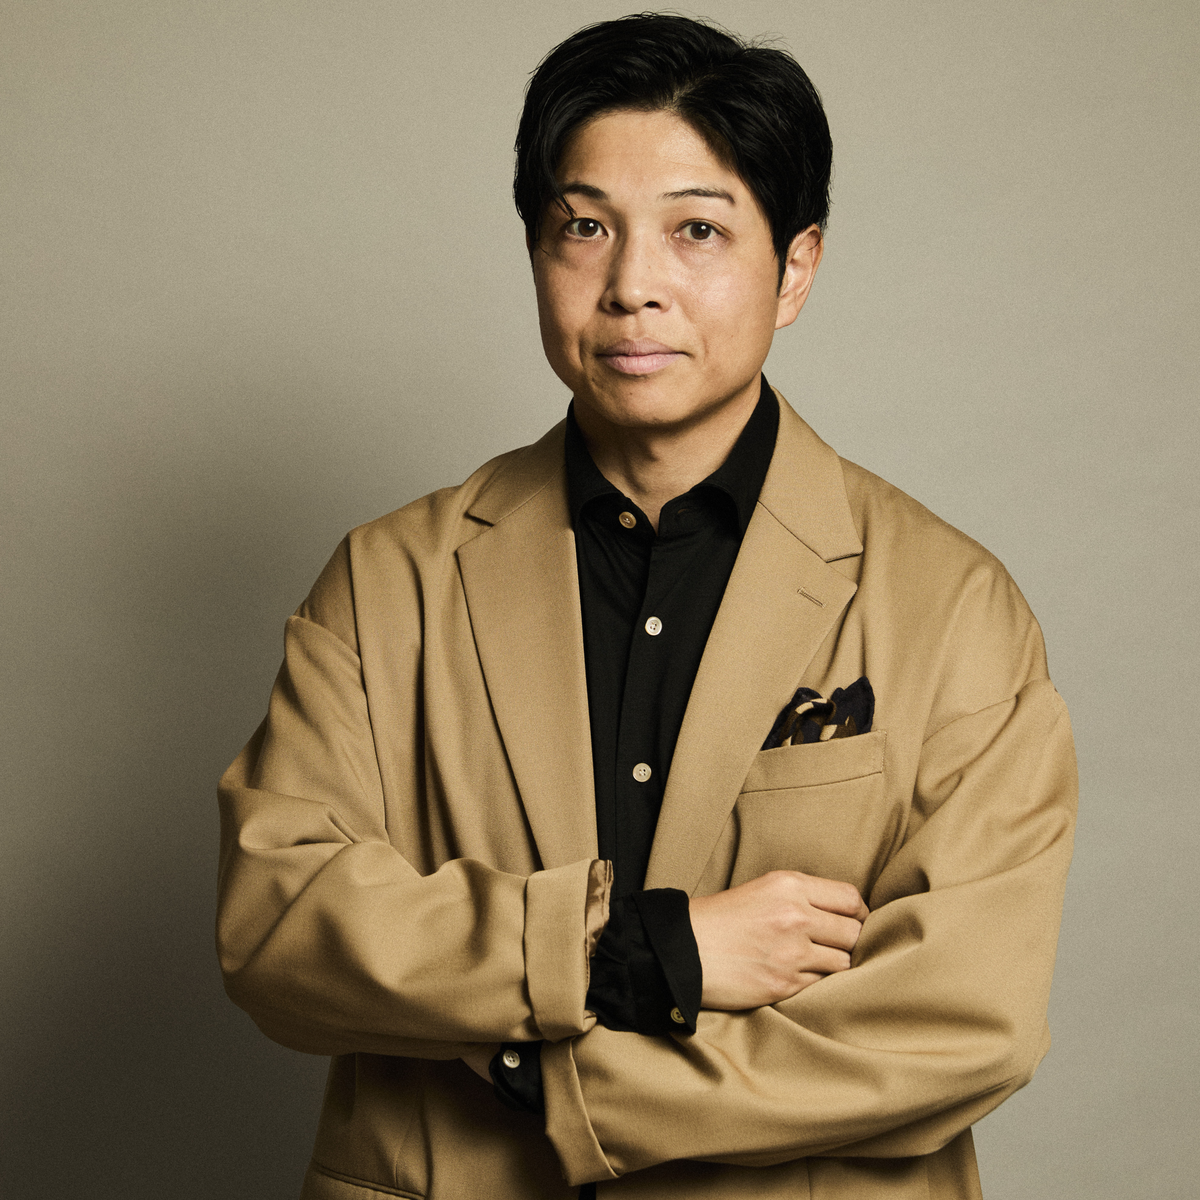
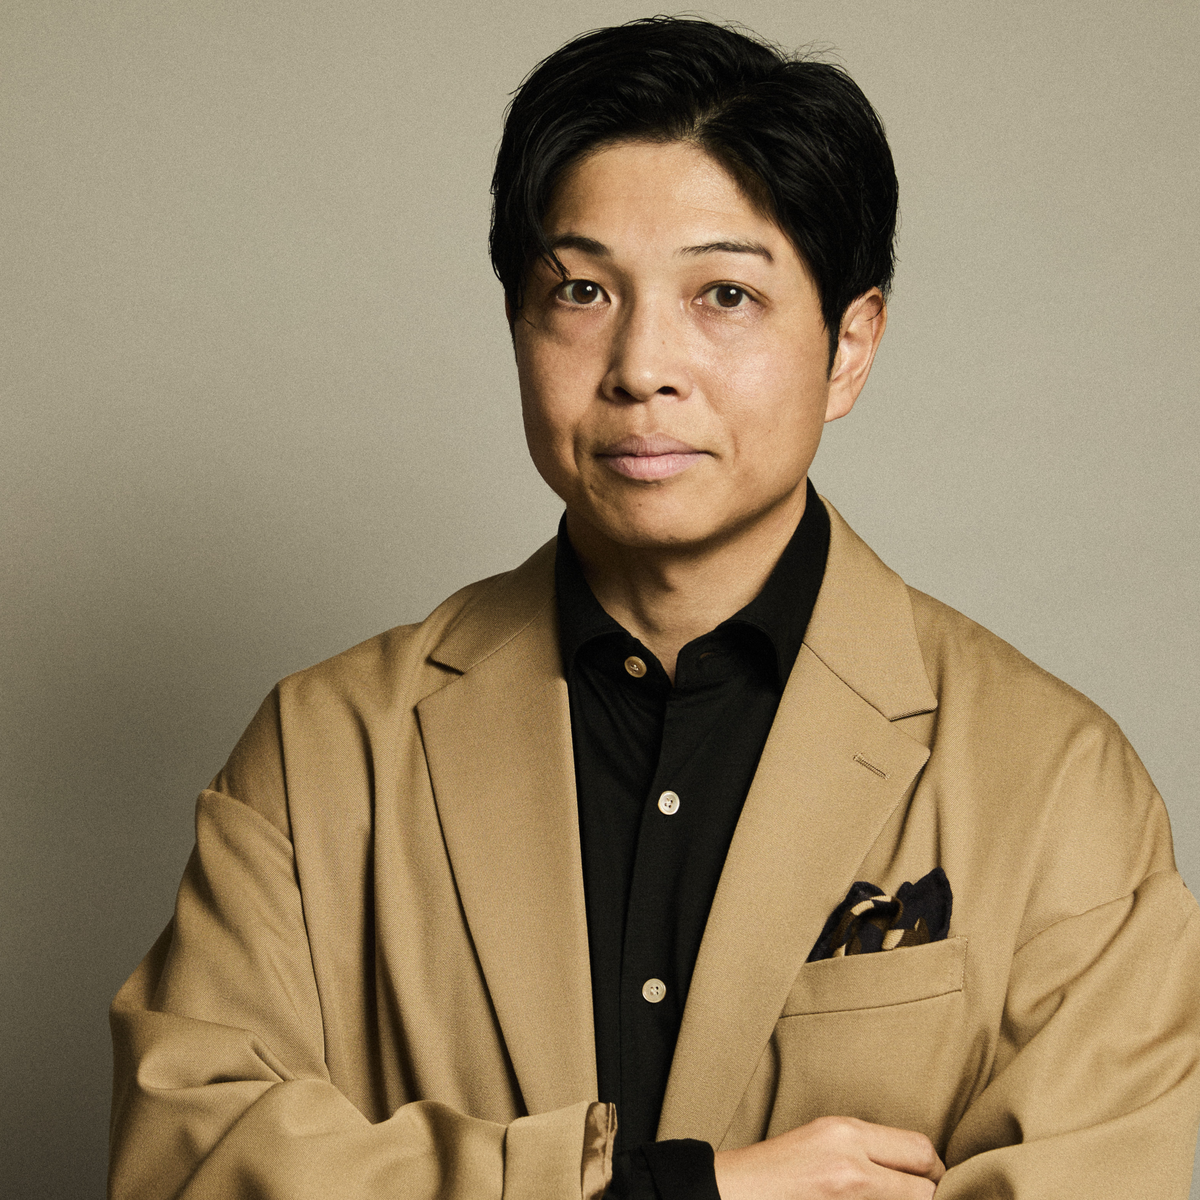
Re-crop Shiroyama profile to tight head-and-shoulders

diff --git a/v10/index.html b/v10/index.html
@@ -1059,7 +1059,7 @@
   <!-- 写真 + 名前 -->
   <div style="display:flex; align-items:center; gap:20px; margin-bottom:28px;">
     <div class="profile-icon" style="width:156px; height:156px; flex-shrink:0;">
-      <img src="shiroyamasan.png?v=2" alt="白山 裕彬">
+      <img src="shiroyamasan.png?v=3" alt="白山 裕彬">
     </div>
     <div>
       <div class="profile-role">代表取締役 / 編集者</div>

diff --git a/v8/index.html b/v8/index.html
@@ -680,7 +680,7 @@
   <h2 class="sec-title">プロデューサー紹介</h2>
   <div class="profile-box">
     <div class="profile-photo">
-      <img src="shiroyamasan.png?v=2" alt="白山 裕彬">
+      <img src="shiroyamasan.png?v=3" alt="白山 裕彬">
     </div>
     <div class="profile-role">代表取締役 / 編集者</div>
     <div class="profile-name">白山 裕彬</div>

diff --git a/v11/index.html b/v11/index.html
@@ -1050,7 +1050,7 @@
 
   <div class="profile-box">
     <div class="profile-icon">
-      <img src="shiroyamasan.png?v=2" alt="白山裕彬">
+      <img src="shiroyamasan.png?v=3" alt="白山裕彬">
     </div>
     <p class="profile-role">代表取締役 ／ 編集者</p>
     <p class="profile-name">白山 裕彬</p>

diff --git a/v9/index.html b/v9/index.html
@@ -1045,7 +1045,7 @@
 
   <div class="profile-box">
     <div class="profile-icon">
-      <img src="shiroyamasan.png?v=2" alt="白山裕彬">
+      <img src="shiroyamasan.png?v=3" alt="白山裕彬">
     </div>
     <p class="profile-role">代表取締役 ／ 編集者</p>
     <p class="profile-name">白山 裕彬</p>

diff --git a/v12/index.html b/v12/index.html
@@ -745,7 +745,7 @@
 
   <div class="profile-box">
     <div class="profile-icon">
-      <img src="shiroyamasan.png?v=2" alt="白山裕彬">
+      <img src="shiroyamasan.png?v=3" alt="白山裕彬">
     </div>
     <p class="profile-role">代表取締役 ／ 編集者</p>
     <p class="profile-name">白山 裕彬</p>
